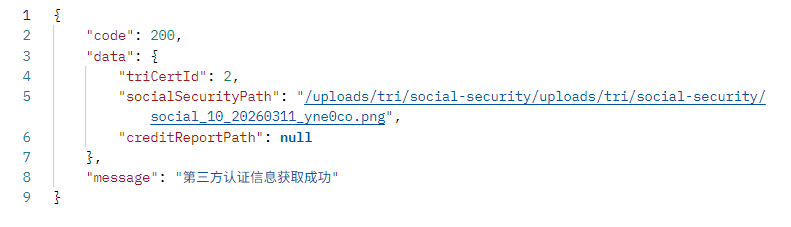
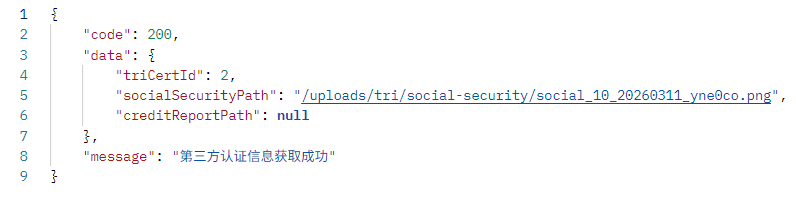
修复bug
修复获取认证图片时返回错误链接的问题

diff --git a/project/backend/personal-loan/src/main/java/com/example/personal_loan/service/impl/AuthServiceImpl.java b/project/backend/personal-loan/src/main/java/com/example/personal_loan/service/impl/AuthServiceImpl.java
@@ -308,6 +308,10 @@ public class AuthServiceImpl implements AuthService{
      * 构建前端可直接访问的 URL：/uploads/{relativeBasePath}/{filename}
      */
     private String buildPublicUrl(String relativeBasePath, String filename) {
+        // 检查filename是否已经是完整的URL路径（包含/uploads/）
+        if (filename.startsWith("/uploads/")) {
+            return filename;
+        }
         // 确保路径不以 / 开头或结尾，避免双斜杠
         String cleanBase = relativeBasePath.replaceAll("/+$", "").replaceAll("^/+", "");
         String cleanFile = filename.replaceAll("^/+", "");

diff --git a/project/backend/document/接口文档/Auth.md b/project/backend/document/接口文档/Auth.md
@@ -162,18 +162,18 @@
         },
         "workCert": {
             "workCertId": 2,
-            "employmentCertPath": "/uploads/work/employment/uploads/work/employment/employment_10_20260310_ipmkqw.png",
-            "salaryCertPath": "/uploads/work/salary/uploads/work/salary/salary_10_20260310_gkkvl6.png"
+            "employmentCertPath": "/uploads/work/employment/employment_10_20260311_cz77r0.png",
+            "salaryCertPath": "/uploads/work/salary/salary_10_20260310_gkkvl6.png"
         },
         "triCert": {
             "triCertId": 2,
-            "socialSecurityPath": "/uploads/tri/social-security/uploads/tri/social-security/social_10_20260310_zy4bwa.png",
+            "socialSecurityPath": "/uploads/tri/social-security/social_10_20260311_yne0co.png",
             "creditReportPath": null
         },
         "immovablesCert": {
             "immovableCertId": 2,
-            "propertyCertPath": "/uploads/immovables/property/uploads/immovables/property/property_10_20260310_aab3id.png",
-            "carCertPath": "/uploads/immovables/car/uploads/immovables/car/car_10_20260310_ugodx5.png",
+            "propertyCertPath": "/uploads/immovables/property/property_10_20260311_jtsfab.png",
+            "carCertPath": "/uploads/immovables/car/car_10_20260311_gwgs90.png",
             "totalValue": null
         }
     },
@@ -206,8 +206,8 @@
     "code": 200,
     "data": {
         "workCertId": 2,
-        "employmentCertPath": "/uploads/work/employment/uploads/work/employment/employment_10_20260311_cz77r0.png",
-        "salaryCertPath": "/uploads/work/salary/uploads/work/salary/salary_10_20260310_gkkvl6.png"
+        "employmentCertPath": "/uploads/work/employment/employment_10_20260311_cz77r0.png",
+        "salaryCertPath": "/uploads/work/salary/salary_10_20260310_gkkvl6.png"
     },
     "message": "工作认证信息获取成功"
 }
@@ -236,7 +236,7 @@ triCertId|integer|是|第三方认证ID|2|
     "code": 200,
     "data": {
         "triCertId": 2,
-        "socialSecurityPath": "/uploads/tri/social-security/uploads/tri/social-security/social_10_20260311_yne0co.png",
+        "socialSecurityPath": "/uploads/tri/social-security/social_10_20260311_yne0co.png",
         "creditReportPath": null
     },
     "message": "第三方认证信息获取成功"
@@ -266,8 +266,8 @@ triCertId|integer|是|第三方认证ID|2|
     "code": 200,
     "data": {
         "immovableCertId": 2,
-        "propertyCertPath": "/uploads/immovables/property/uploads/immovables/property/property_10_20260311_jtsfab.png",
-        "carCertPath": "/uploads/immovables/car/uploads/immovables/car/car_10_20260311_gwgs90.png",
+        "propertyCertPath": "/uploads/immovables/property/property_10_20260311_jtsfab.png",
+        "carCertPath": "/uploads/immovables/car/car_10_20260311_gwgs90.png",
         "totalValue": null
     },
     "message": "不动产认证信息获取成功"
